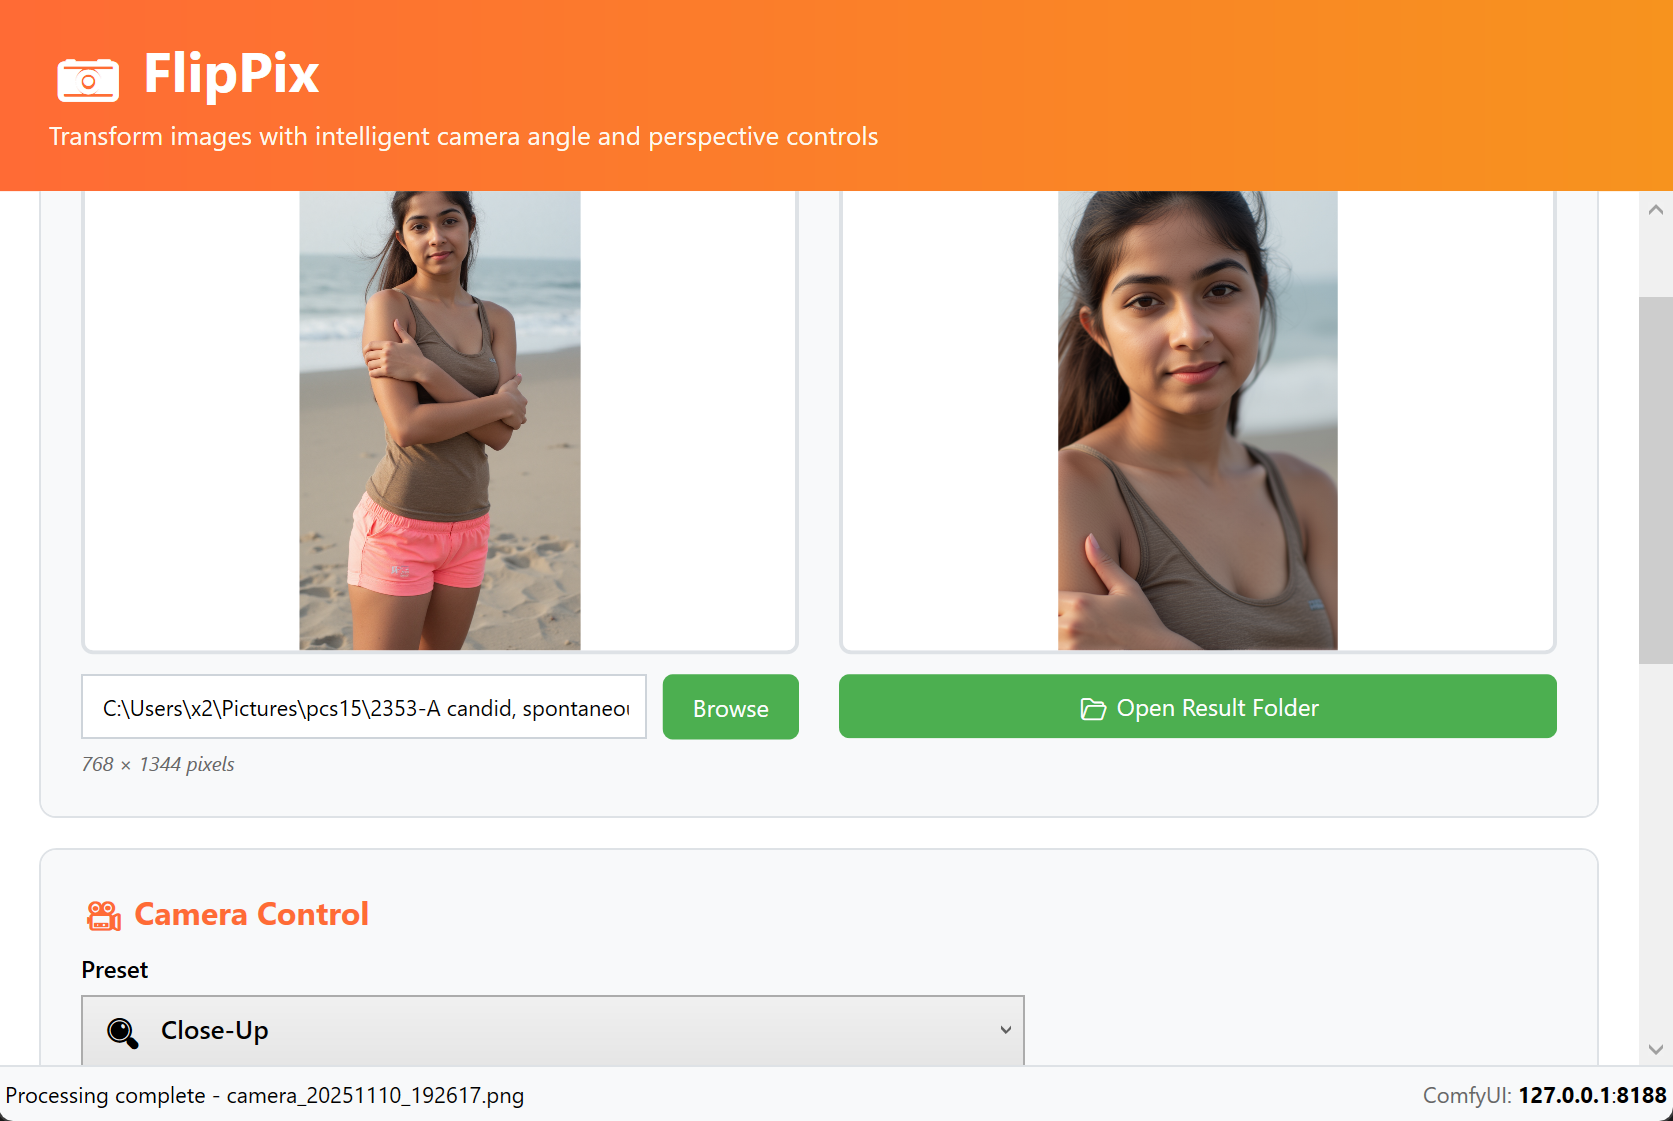
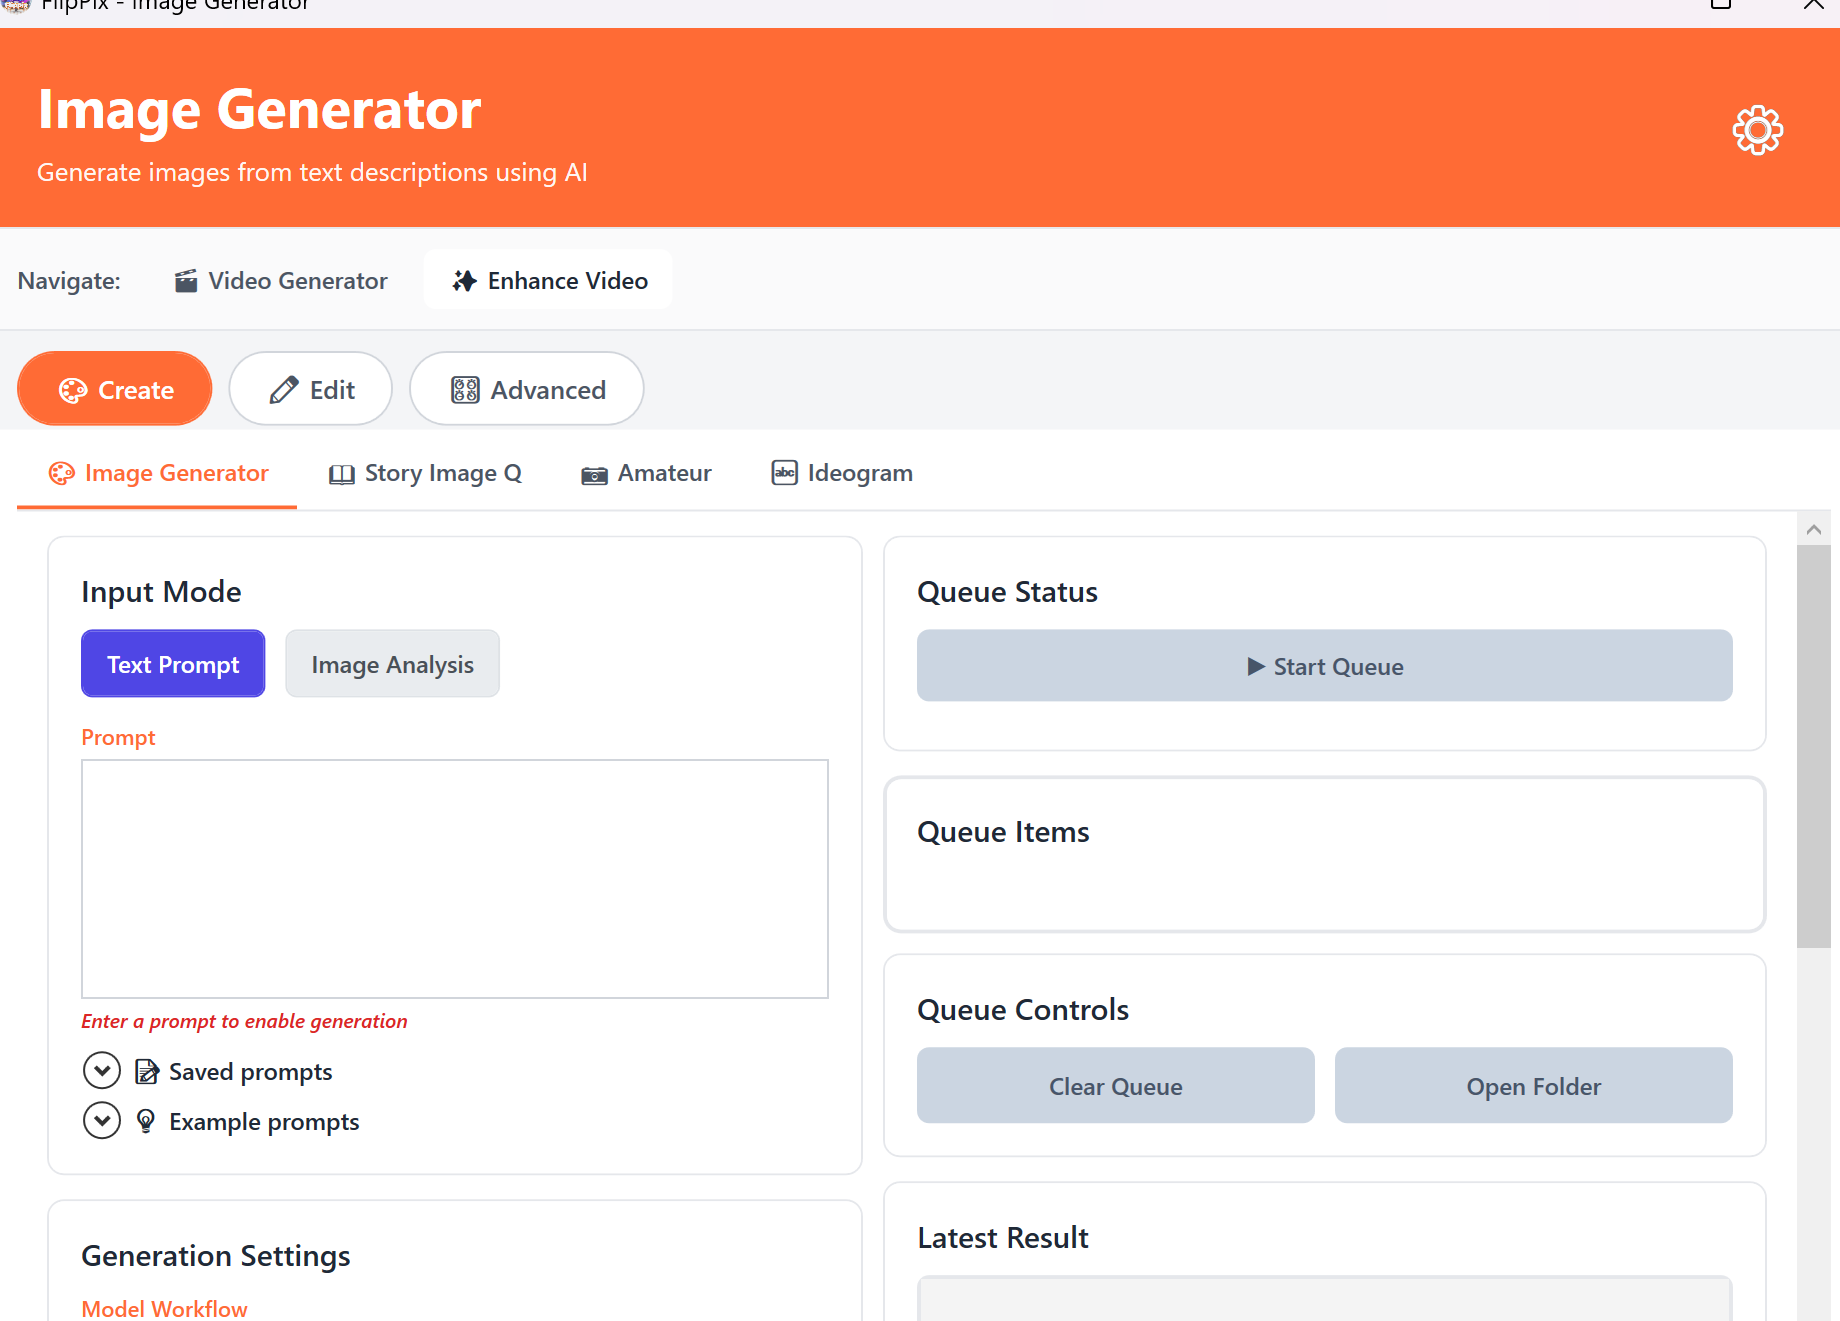
Add a demo video section to the README
The 40-second walkthrough of the MiniMax Character tab is hosted as an
asset on the v1.2.0 release rather than committed, so the repo does not
carry another video blob. The README links it behind a poster frame
pulled from the 34s mark.

Two .gitignore fixes this needed:

- `*.jpg` would have swallowed docs/demo-poster.jpg, so the poster is
  added to the README-assets exception block.
- `!flippix.mp4` is a bare basename pattern and therefore un-ignored
  docs/Flippix.mp4 as well; `docs/*.mp4` now re-ignores the demo source.

Also recompresses flippix.png, 572KB to 158KB.

diff --git a/README.md b/README.md
@@ -21,6 +21,22 @@ Grab `FlipPix-Setup.zip`, extract, and double-click `Install-FlipPix.bat` — se
 
 ---
 
+## Demo
+
+<div align="center">
+
+[<img src="docs/demo-poster.jpg" alt="Watch the FlipPix demo video" width="100%">](https://github.com/bongobongo2020/flippix/releases/download/v1.2.0/FlipPix-demo.mp4)
+
+**▶ [Watch the 40-second demo](https://github.com/bongobongo2020/flippix/releases/download/v1.2.0/FlipPix-demo.mp4)** *(14 MB MP4)*
+
+</div>
+
+One job start to finish on the **🎭👥 MiniMax Character** tab — dropping in a character
+reference and a scene image, Analyze writing the H3 prompt, the queue running it, and the
+finished clip playing back in-app.
+
+---
+
 ## What's in the app
 
 <img src="docs/feature-map.svg" alt="FlipPix feature map: the Image Generator, Video Generator and Enhance windows and their tabs" width="100%">
@@ -199,7 +215,7 @@ flippix/
 ├── prompts/prompt2json/          # One system prompt per tab (h3minimax.md, vr180.md, …)
 ├── scripts/                      # Installers, backup/restore, model + node manifests
 ├── tools/                        # Workflow conversion + audit helpers
-├── docs/                         # README diagrams (regenerate: python docs/make-diagrams.py)
+├── docs/                         # README diagrams + demo poster (regenerate: python docs/make-diagrams.py)
 └── publish/                      # Built self-contained app
 ```
 
